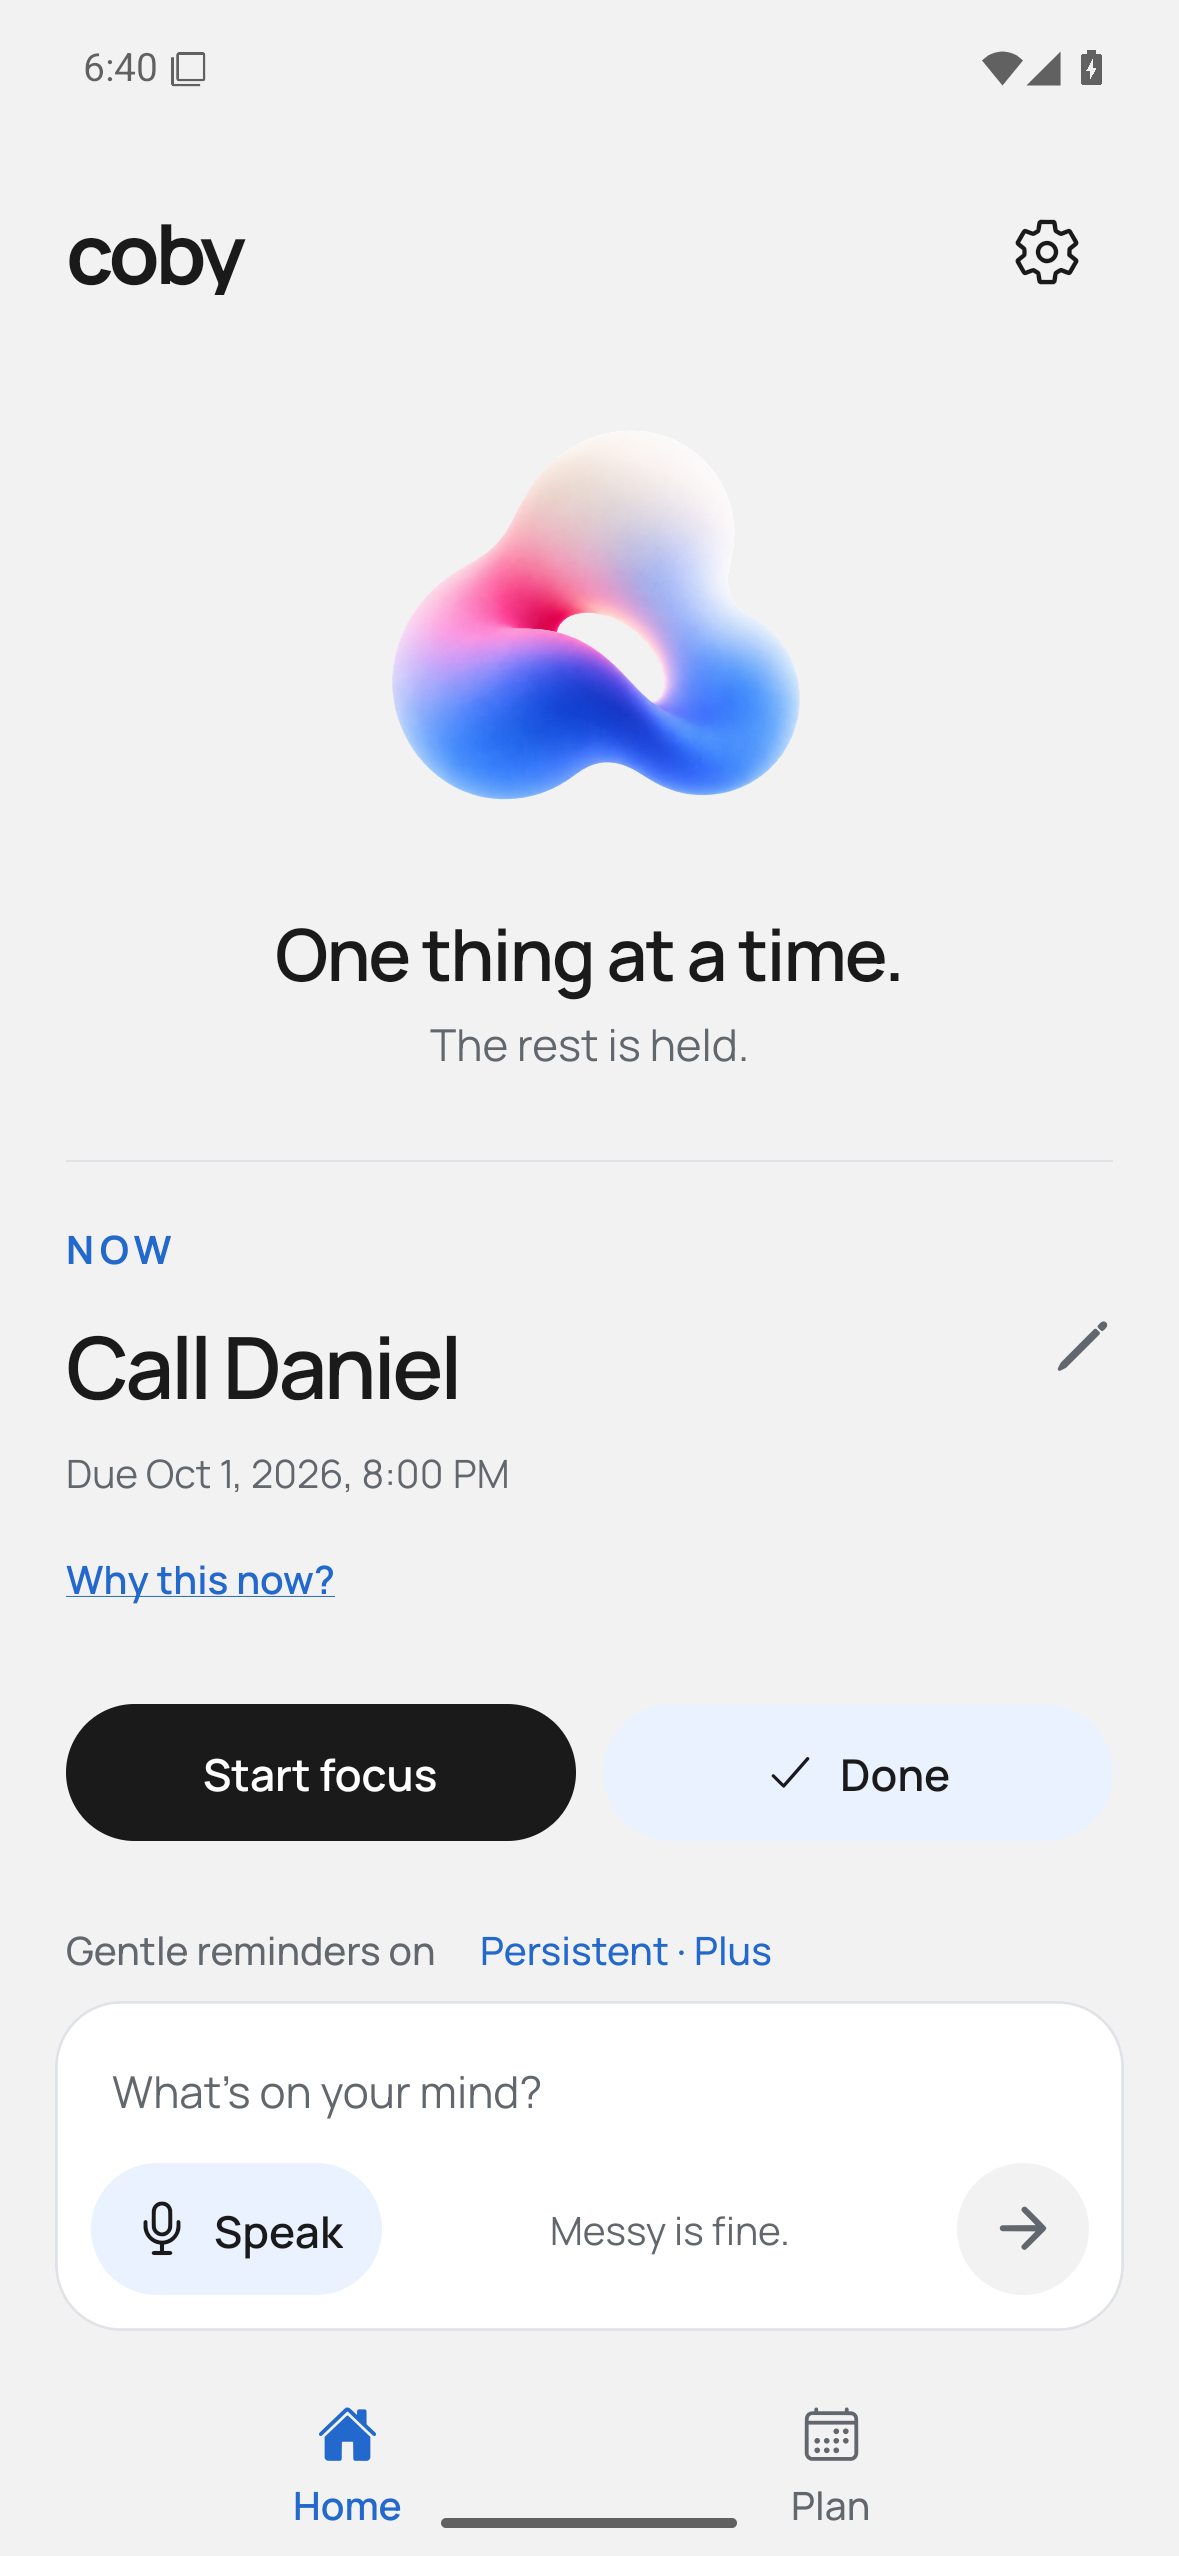
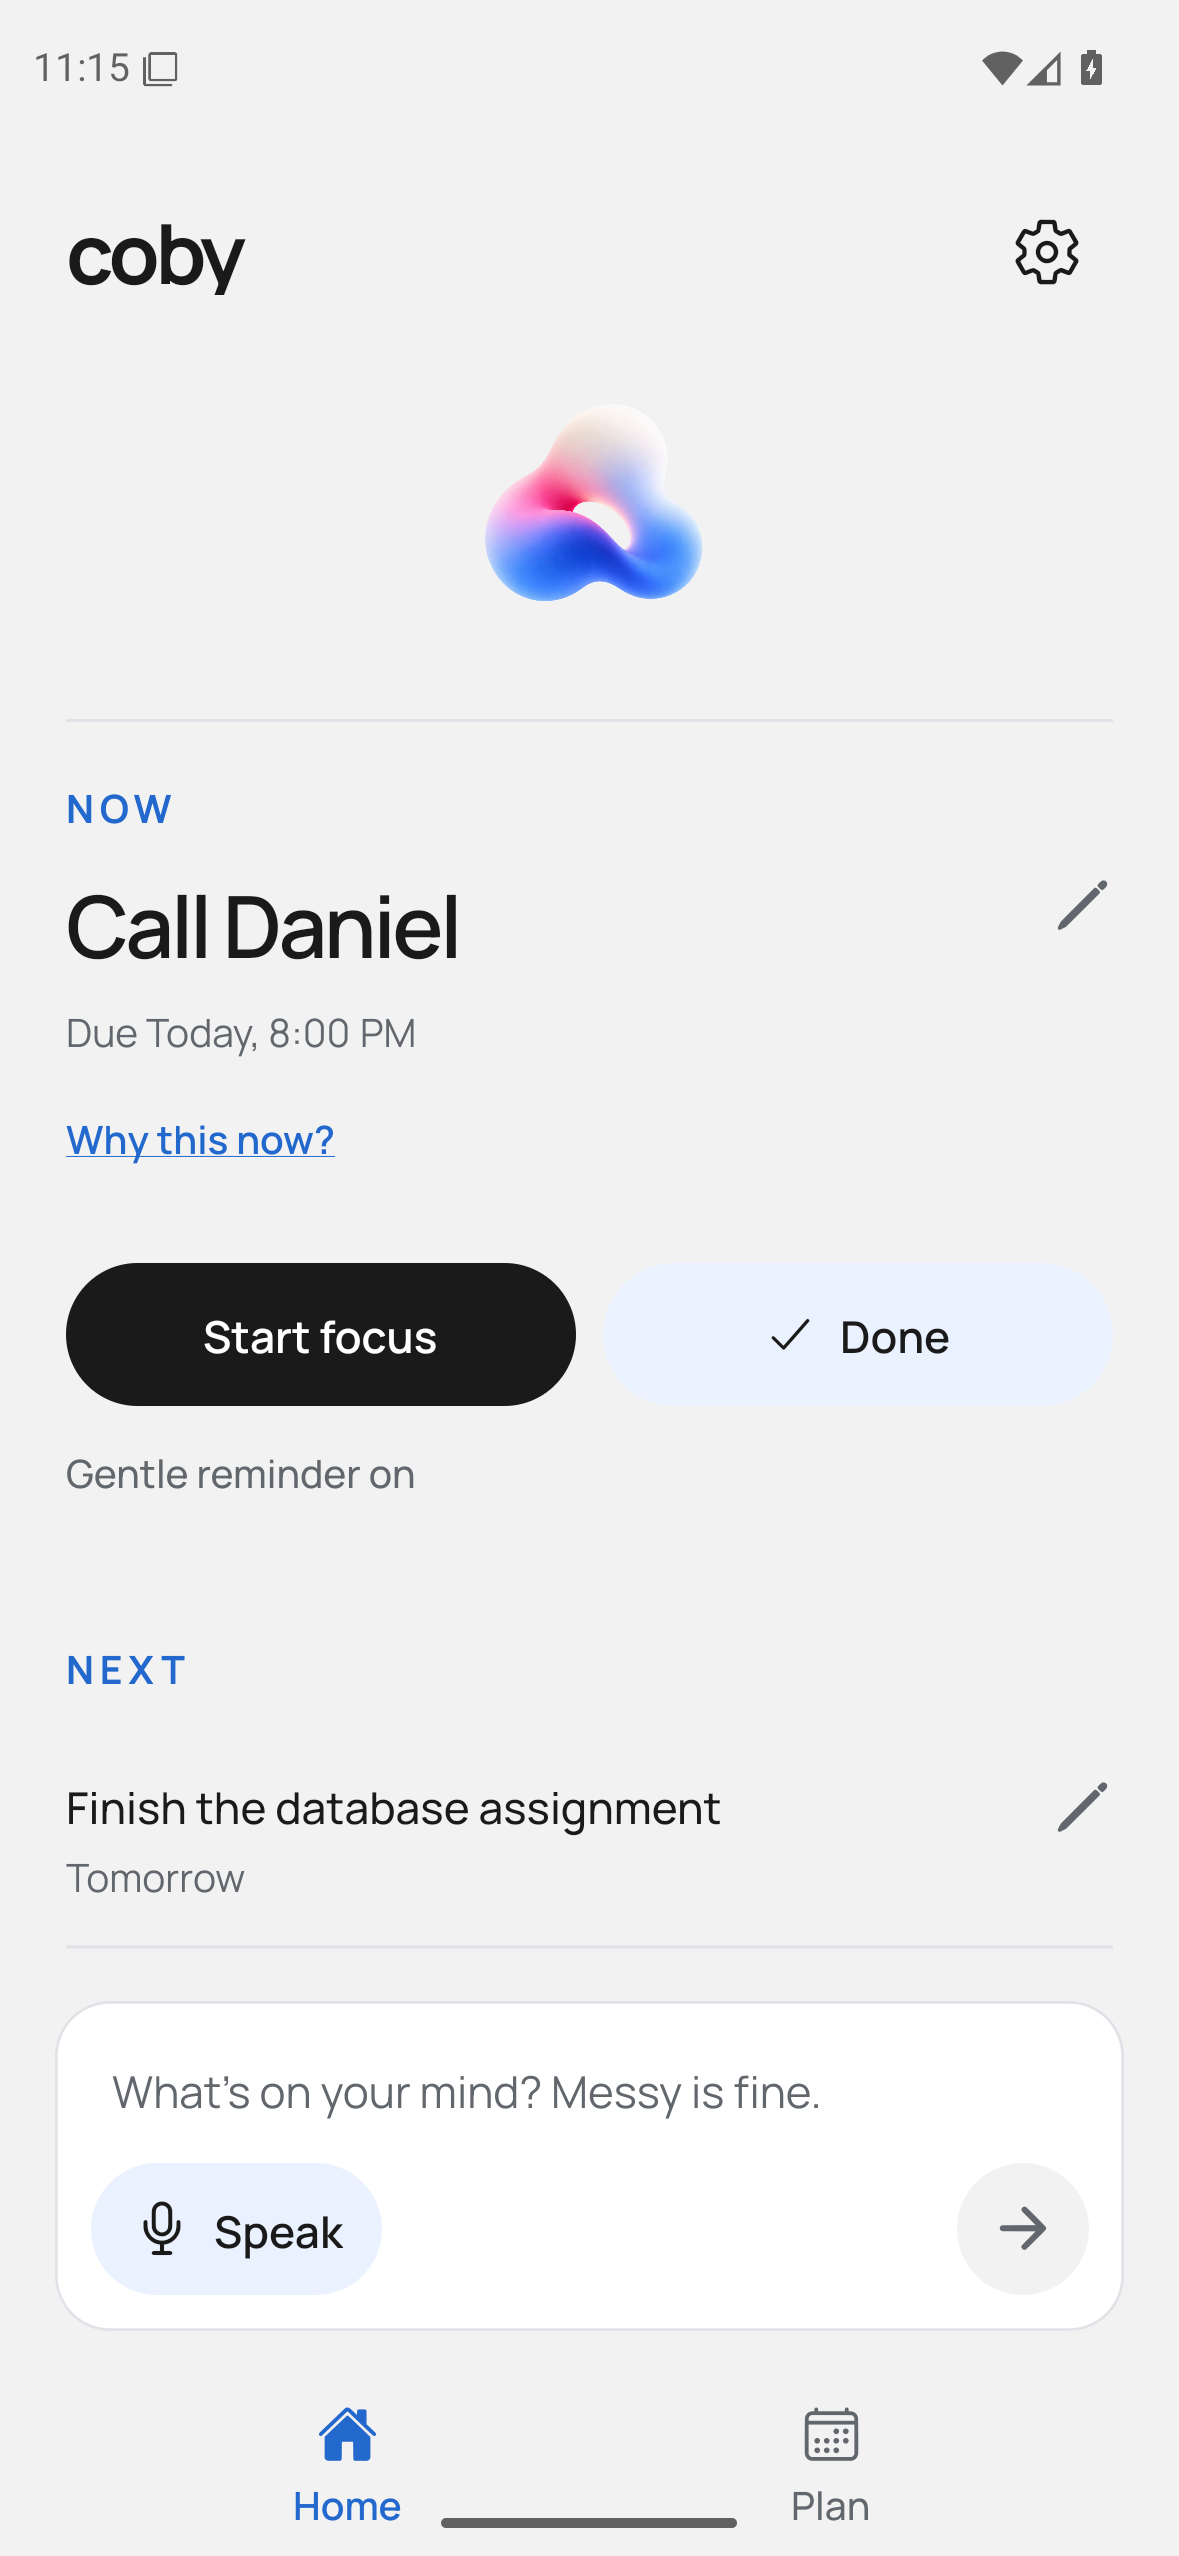
Record final P0 Android acceptance and refresh submission screenshot

diff --git a/docs/TEST_MATRIX.md b/docs/TEST_MATRIX.md
@@ -2,14 +2,15 @@
 
 ## October 1 — Current P0 polish gate
 
-- PASS at d50a74f: native UI 36848027053 and notification actions 36848035543; their downloaded reports and batched screenshots verify the revised paths below. Branded debug 36848023063 passed.
-- FINAL CONFIRMATION PENDING: corrected weekly month-range/recovery instructions, actual denied-notification local holding with automatic Gentle, and 1.3 system font-scale Home/List/Calendar. Native source changes are limited to these clarity refinements.
+- PASS at d50a74f: native UI 36848027053 and notification actions 36848035543; downloaded reports and screenshots verify the revised paths. Branded debug 36848023063 passed.
+- PASS at 2242fd0: final native confirmation 36852963130. Corrected weekly month-range/recovery instructions, actual denied-notification local holding with automatic Gentle, and 1.3 system font-scale Home/List/Calendar passed. Downloaded native-flow.txt and final screenshots were inspected.
 
 - Code checks: typecheck/lint and 74 domain/session tests pass. New cases cover relative dates/year rollover/null timing and staged reminder edits, snooze preservation/clearing and removal of exact timing.
-- Native UI run pending: keyboard-visible synthetic typing; three-item receipt/error jump; reminder Cancel leaves Gentle unchanged; paywall return retains edited title and staged Off; Save Off persists; Android Back exits Focus without completion; List/Calendar/clear/history through restart.
-- Native production notification-action rerun pending for the simplified check-in. Prior scheduler delivery/OS action evidence remains valid, but does not prove the changed screen.
-- Physical acceptance pending: load only after saved-input/Home readiness, confirm valid speech followed by silence has no empty-dump error, automatic Gentle on a new future exact-time item, and saved-item recovery with denied notification permission. Use clearly labelled synthetic input; preserve real tasks.
-- Final subjective visual approval, fresh screenshot and corrected human-captured film remain open. This pass adds no P1 work.
+- PASS: keyboard-visible synthetic typing; exact three-item receipt/error jump; reminder Cancel leaves Gentle unchanged; paywall return retains edited title and staged Off; Save Off persists; Android Back exits Focus without completion; List/Calendar/clear/history through restart. Final run 36852963130 repeats this flow.
+- PASS: 36848035543 exercises real 30-minute and one-hour Android notification actions through the simplified production check-in. Original deadlines, one pending request, persisted postponement after cold restart and explicit offline retention all pass. Earlier real wall-clock Persistent delivery remains valid.
+- PHONE: user authorized saved-input reload. Branded d50a74f development APK installed over the OnePlus app without uninstalling or clearing data; aggregate non-test payload integrity matches the pre-install baseline. Metro 8084 serves the latest source with SystemClock. The phone left Coby before bundle loading could be confirmed; latest-bundle and spoken silence-warning confirmation remain pending. Native permission/default-Gentle checks above passed on the isolated emulator; do not claim separate physical acceptance.
+- ASSET: final actual Android Home screenshot from 36852963130 is 1179×2556, contains only synthetic data and replaces assets/submission/screenshot-home.png. NEXT remains accessible by scrolling.
+- Final subjective visual approval and corrected human-captured film remain open. New editor purchase-return staging is implemented; the human must verify successful purchase and Save on the film's hero item before recording follow-through. This pass adds no P1 work.
 
 ## October 1 — P0 closure checkpoint
 

diff --git a/docs/HANDOVER.md b/docs/HANDOVER.md
@@ -191,7 +191,7 @@ The canonical anti-AI-slop hackathon demo video is authored, verified, and rende
 
 ## NEXT ACTION
 
-Finish the bounded permission/larger-text Android confirmation, load the authorized phone update and confirm the false-silence warning, then freeze the UI for human film capture.
+Confirm the latest phone bundle and false-silence warning with final visual approval, then freeze the UI for human film capture.
 
 ## October 1 — Real Persistent delivery and clear/restart passed
 
@@ -262,3 +262,11 @@ Commit d50a74f passed branded debug build 36848023063, full native UI flow 36848
 Two final corrections from that review: weekly header names both months at a boundary and shrinks/wraps at larger text; reminder failure points to opening/saving the item in Plan instead of suggesting a removed direct control. The bounded confirmation adds actual denied-notification holding/recovery and 1.3 system font-scale Home/List/Calendar. Typecheck/lint/74 tests pass; fresh native confirmation is pending.
 
 User explicitly authorized pushing main/running GitHub checks and saved-input phone reload after the automatic review block. Phone Home was verified empty/not listening; an aggregate integrity baseline was recorded without saving payloads. Local .env still had DEMO_MODE=true; changed only that non-secret setting to false so physical testing uses SystemClock. Credentials were preserved and .env remains ignored. Windows denied local Hermes execution; hosted native builds passed. Metro refresh and physical loading remain in progress. No private item has been edited or deleted.
+
+## October 1 — Final native confirmation passed; phone acceptance pending
+
+Final confirmation 36852963130 at 2242fd0 passed the full native flow, actual notification-denial recovery with automatic Gentle, and 1.3 system font-scale Home/List/Calendar. Downloaded native-flow.txt and final large-text/permission frames were inspected. The month-range header and recovery instructions match the current controls. The final 1179×2556 actual Android Home screenshot, using synthetic items only, replaces assets/submission/screenshot-home.png. Both NEXT rows remain scrollable rather than guaranteed above the input. This completes the bounded native review; no optional polish or P1 expansion is planned before capture.
+
+The authorized d50a74f development APK was installed over the OnePlus app; its native runtime is compatible with 2242fd0. Aggregate non-test payload integrity is unchanged. Metro 8084/session 27001 serves the latest JavaScript with DEMO_MODE=false; credentials remain ignored and unchanged. The phone switched to another app before bundle loading was confirmed, so leave that surface alone and wait for the human to open Coby. Do not claim the latest source is running yet. The remaining app gate is valid spoken capture followed by a pause without a false empty-dump warning, plus final subjective visual approval. No private task was saved, completed, edited, deleted or cleared.
+
+Film preparation may continue in ignored film/. Human recording uses the actual editor: choose Persistent, purchase if required, return to the preserved draft, then Save changes. Its successful purchase-and-Save take and corrected final render still need human verification/review. The old private/incorrect demo remains rejected. Source is a freeze candidate; full P0/submission approval is not yet claimed.

diff --git a/docs/DECISIONS.md b/docs/DECISIONS.md
@@ -211,3 +211,5 @@ Readable dates are Clock-relative and never invent timing. Explain the actual cr
 Update tracked native selectors with label changes and add actual Android checks for Cancel, saved reminder choice, paywall draft retention and Back. Preserve the pre-existing untracked fixed-coordinate automate_demo_capture.py; it is not the accepted film capture workflow. Local checks and a clean mechanical scan do not replace fresh native rendering/interaction evidence.
 
 - Native review d50a74f passed; perform one bounded confirmation for the two final clarity corrections and the required denied-permission/large-text checks. A week spanning months shows both, including both years at a year boundary. Recovery instructions point to the actual saved editor. The local phone setup uses SystemClock; demo time is explicit in Lab/fixture builds, never silently used for live follow-through.
+
+- Final bounded confirmation 36852963130 at 2242fd0 passed, including denied-notification saved-state recovery, automatic Gentle and larger system text. Stop optional interface changes and use this source as the freeze candidate. Final phone speech-warning/visual acceptance and truthful human film remain explicit gates. Replace the submission screenshot with the inspected native synthetic frame; do not publish the rejected draft or private footage. Film capture uses the staged editor and an explicit Save after a successful Test Store purchase.

diff --git a/docs/FILM_BRIEF.md b/docs/FILM_BRIEF.md
@@ -63,7 +63,7 @@ Log the clock time of every tap.
 | E | Leave Coby. Notification "This is a good time to start." → tap 15 min → postponement shown | ≈ T+10 |
 | F | "Checking in, as you asked." → tap body → check-in → Start focus → Complete → Completed history | 15 min after E's actual delay tap |
 
-Take C describes the intended polished flow, not a claim that its new editor exists yet. Adapt capture instructions to the frozen app's actual labels; never reconstruct missing controls. Confirm the purchase unlocks Persistent on the hero before waiting for E. Each take ≤ 180 s if the human uses adb screenrecord. Check for unrelated notifications before using any frame. Switch back to Owner when done.
+Take C's editor is implemented. Native flow 36852963130 verifies staged reminder Save/Cancel, paywall draft preservation and Back; it does not prove a new successful purchase in this editor. Use the frozen app's actual labels: select Persistent · Plus, finish the Test Store purchase, return to the draft and tap Save changes. Confirm the hero's saved reminder is Persistent before waiting for E. Never reconstruct missing controls. Each take ≤ 180 s if the human uses adb screenrecord. Check for unrelated notifications before using any frame. Switch back to Owner when done.
 
 ## 6. Storyboard (~112 s)
 
